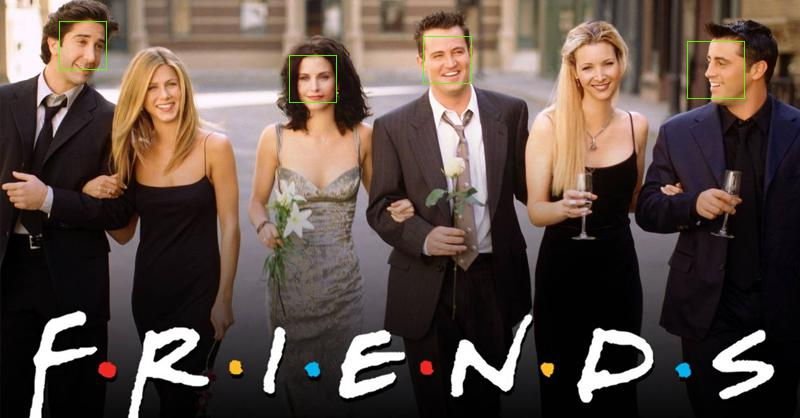
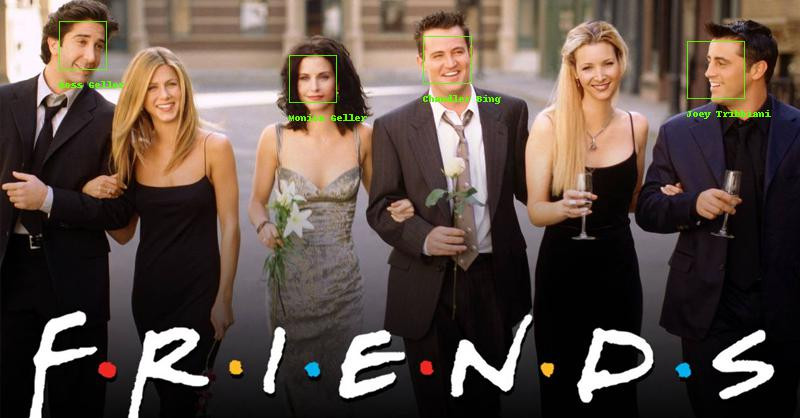
implemented face labeling and username display

diff --git a/src/tag_faces.py b/src/tag_faces.py
@@ -39,24 +39,4 @@ for face_location in face_locations:
             else:
                 matches[user].add((PICTURE, face_location))
 
-for pic in os.listdir(PICDIR):
-    print(f"{pic}")
-    # with Image.open(f"{PICDIR}pic") as im:
-    # for uname in matches:
-    #     for pic_coords in matches[uname]:
-    #         pic = pic_coords[0]
-    #         coords = pic_coords[1]
-    #         (x0, x1) = (coords[3], coords[1])
-    #         (y0, y1) = (coords[0], coords[2])
-            
-    #             draw = ImageDraw.Draw(im)
-    #             # (x0, y0, x1, y1)
-    #             draw.line(x0, y0, x1, y0, fill=128) # Upper horizontal line
-    #             draw.line(x0, y1, x1, y1, fill=128) # Lower horizontal line
-    #             draw.line(x0, y0, x0, y1, fill=128) # Left vertical line
-    #             draw.line(x1, y0, x1, y1, fill=128) # Right vertical line
-    #             im.save(f"{user}")
-
-
-
 print(matches)

diff --git a/src/label_faces.py b/src/label_faces.py
@@ -20,4 +20,12 @@ with Image.open(f"{PICDIR}{PICTURE}") as im:
                 draw.line([(x0, y1), (x1, y1)], fill=(93, 249, 7, 227)) # Lower horizontal line
                 draw.line([(x0, y0), (x0, y1)], fill=(93, 249, 7, 227)) # Left vertical line
                 draw.line([(x1, y0), (x1, y1)], fill=(93, 249, 7, 227)) # Right vertical line
+                display_name = ""
+                for string in uname.split("_"):
+                    first_char = string[0].upper()
+                    rem_chars = string[1:]
+                    display_name += first_char
+                    display_name += rem_chars
+                    display_name += " "
+                draw.text((x0, y1 + 10), display_name, fill=(93, 249, 7, 227), anchor="mm") # Displays name
                 im.save(f"{OUTDIR}tagged_{PICTURE}")
